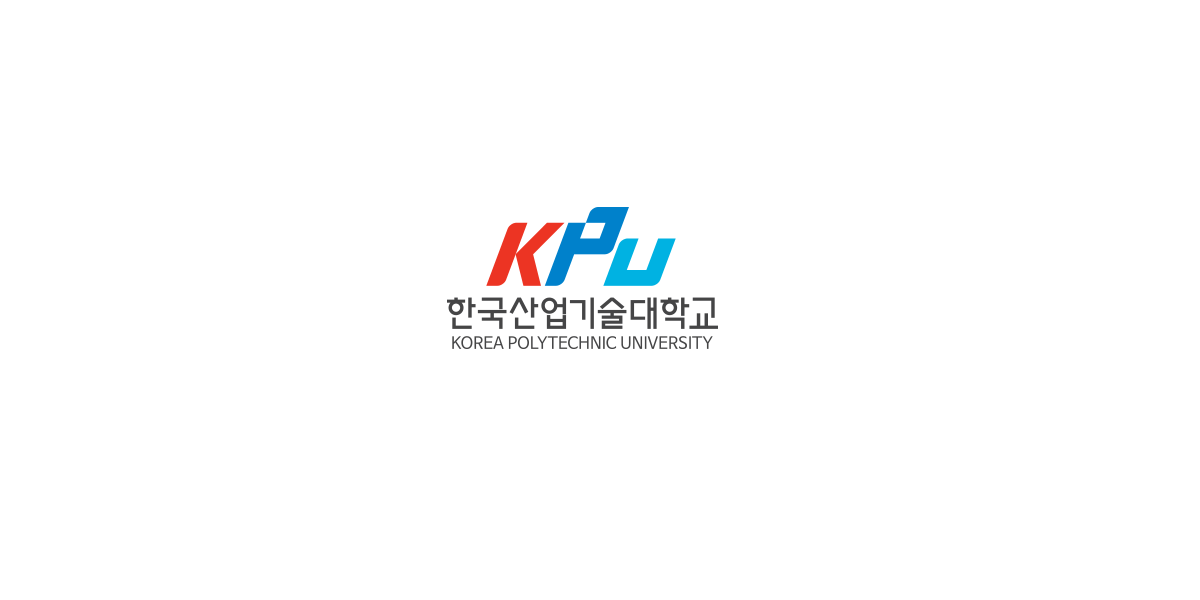
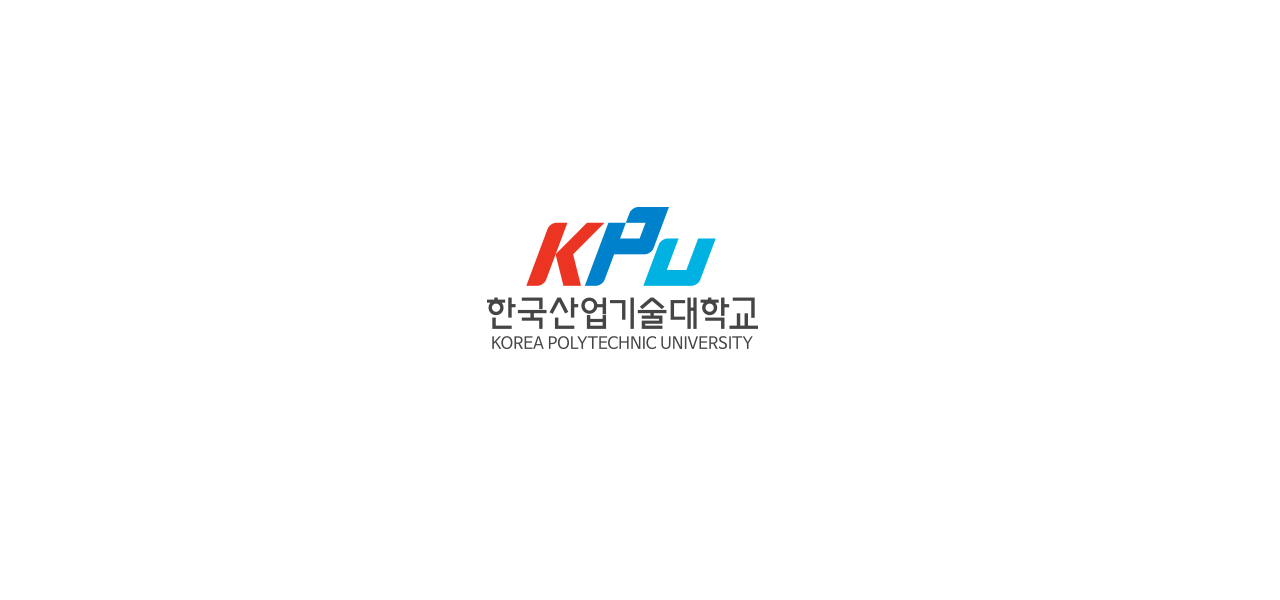
add
add

Changed region(s): [[0.37, 0.36, 0.6167, 0.6]]

diff --git a/Develop/main_state.py b/Develop/main_state.py
@@ -16,44 +16,45 @@ maps = None
 class Maps:
     def __init__(self):
         self.image = load_image('map02_3.png')
+        self.x, self.y = 640,0
         self.frame = 0
     def draw(self):
-        self.image.clip_draw(self.frame * 100, 0, 1600, 630, self.x, 300)
+        self.image.draw(self.x,300)
 
     def update(self):
-        self.frame = (self.frame + 1) % 8
         self.x -= 1
 
 class Character:
     def __init__(self):
-        self.x, self.y = 0, 90
+        self.x, self.y = 90, 90
         self.frame = 0
         self.image = load_image('running1.png')
-        
-
     def update(self):
-        self.frame = (self.frame + 1) % 8
-        self.x += self.dir
-        if self.x >= 800:
-            self.dir = -1
-        elif self.x <= 0:
-            self.dir = 1
+        self.image.draw(150, 200)
 
     def draw(self):
-        self.image.clip_draw(self.frame * 100, 0, 100, 100, self.x, self.y)
+        self.image.clip_draw(self.frame * 160, 0, 160, 160, self.x, self.y)
+        self.frame = (self.frame + 1) % 4
 
-# 게임에 들어갈 때 초기화를 해준다
-# boy와 grass를 초기화 해준다!
+    def UPattack(self):
+        self.image = load_image('up_attack.png')
+
+
+    def Usualattack(self):
+        self.image = load_image('up_attack.png')
+        self.draw(150,90)
+
 def enter():
     global character, maps
+    character = Character()
+    maps = Maps()
     pass
 
-# 게임이 종료될 때를 위해서
-# boy와 grass를 없애준다
+
 def exit():
-    global boy, grass
-    del(boy)
-    del(grass)
+    global character, maps
+    del(character)
+    del(maps)
     pass
 
 
@@ -72,19 +73,28 @@ def handle_events():
             game_framework.quit()
         elif event.type == SDL_KEYDOWN and event.key == SDLK_ESCAPE:    # 타이틀 상태에서 esc키를 누르면 타이틀로 넘어가게
             game_framework.change_state(title_state)
+        elif event.type == SDL_KEYDOWN and event.key == SDLK_f:
+            character.UPattack()
+        elif event.type == SDL_KEYDOWN and event.key == SDLK_j:
+            character.Usualattack()
+
+
     pass
 
 #
 def update():
-
+    character.update()
+    maps.update()
     pass
 
 
 def draw():
     clear_canvas()
-    grass.draw()            # 풀을 그리고..
-    boy.draw()              # 소년도 그려주고....
+    maps.draw()            # 풀을 그리고..
+    character.draw()              # 소년도 그려주고....
     update_canvas()         # 업데이트된 상태도 보여주고....
+
+    delay(0.1)
     pass
 
 

diff --git a/Develop/mygame.py b/Develop/mygame.py
@@ -4,7 +4,7 @@ import pico2d
 import start_state
 
 
-pico2d.open_canvas()        # 피코투디로 캔버스를 열어준다
+pico2d.open_canvas(1280, 600)        # 피코투디로 캔버스를 열어준다
 game_framework.run(start_state)     # start_state 상태로 game_framework가 돌아가게 해준다
                                     # 그럼 start_state -> title_state-> main_state상태로 접어들고 main_state에서 pause이벤트가 일어나게 해줌
 pico2d.close_canvas()

diff --git a/Develop/title_state.py b/Develop/title_state.py
@@ -34,7 +34,7 @@ def handle_events():
     pass
 def draw():
     clear_canvas()
-    image.draw(400,300)         # 메인화면을 그려라!
+    image.draw(640,300)         # 메인화면을 그려라!
     update_canvas()
     pass
 

diff --git a/Develop/start_state.py b/Develop/start_state.py
@@ -35,7 +35,7 @@ def update():
 def draw():
     global image           # kpu_credit을 보여줌
     clear_canvas()
-    image.draw(400,300)
+    image.draw(640,300)
     update_canvas()
     pass
 
